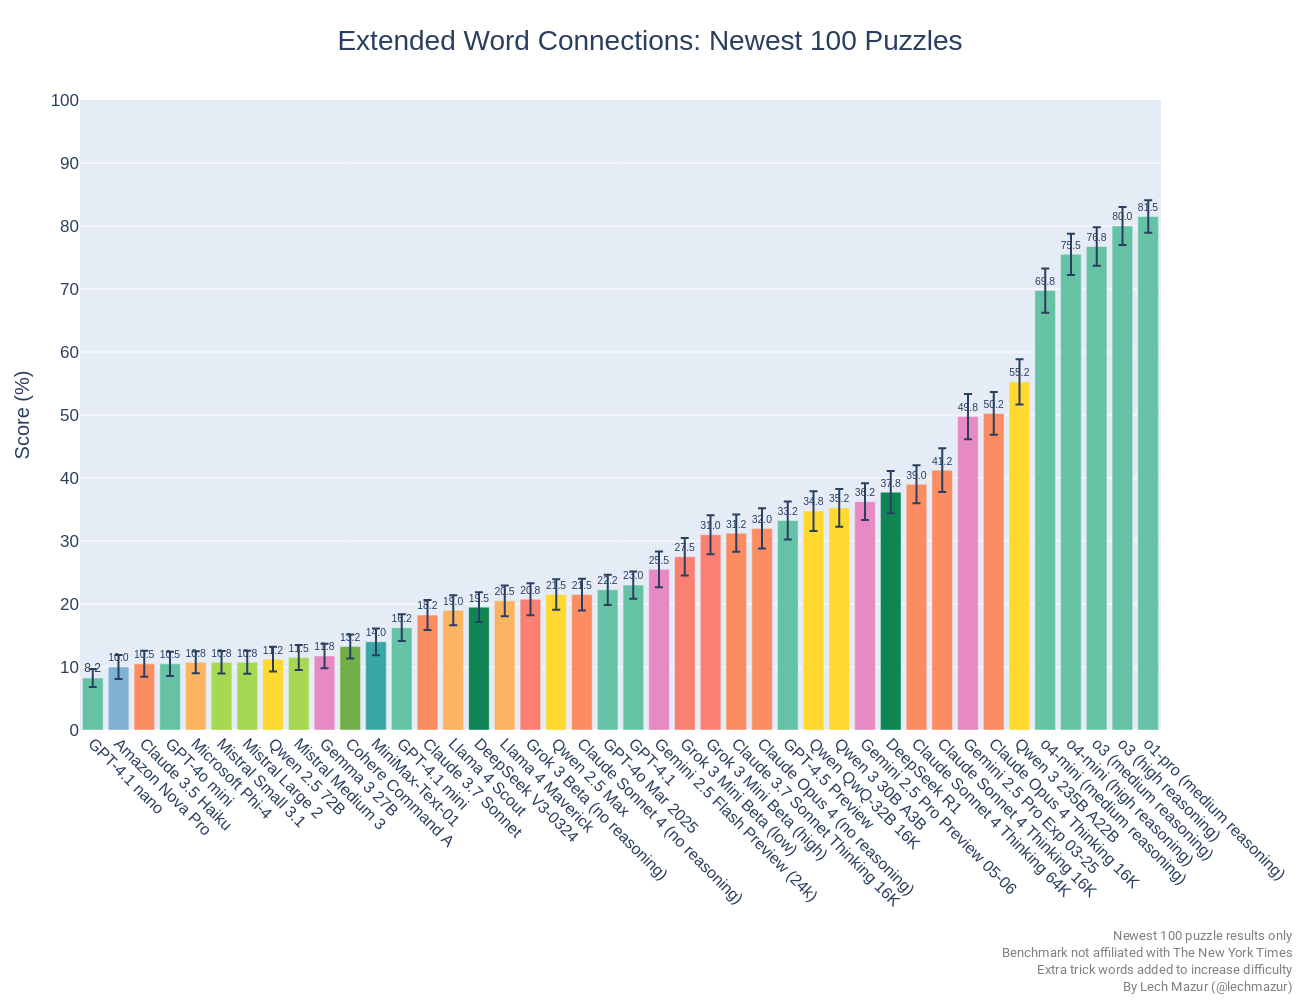
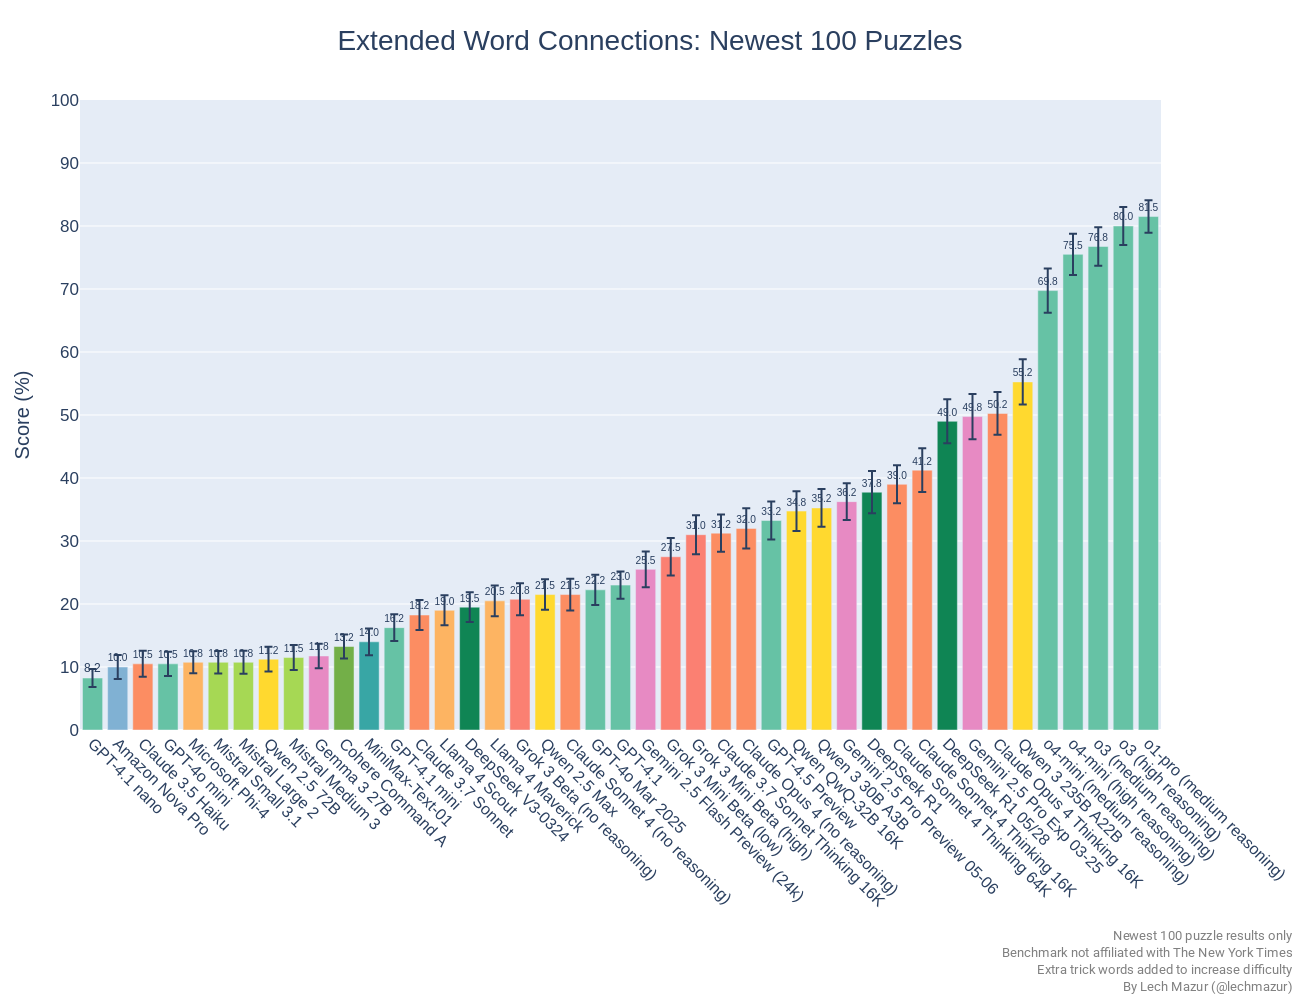
DeepSeek R1 05/28

Changed region(s): [[0.0615, 0.186, 0.9846, 0.899]]

diff --git a/README.md b/README.md
@@ -23,58 +23,59 @@ As of Feb 4, 2025, there is a new version of the benchmark. The standard NYT Con
 |9|Gemini 2.5 Pro Exp 03-25|54.1|
 |10|o3-mini (medium reasoning)|53.6|
 |11|Claude Opus 4 Thinking 16K|52.7|
-|12|Gemini 2.5 Pro Preview 05-06|42.5|
-|13|Claude Sonnet 4 Thinking 16K|41.4|
-|14|Claude Sonnet 4 Thinking 64K|39.6|
-|15|DeepSeek R1|38.6|
-|16|Qwen 3 30B A3B|38.1|
-|17|Claude Opus 4 (no reasoning)|34.8|
-|18|GPT-4.5 Preview|34.2|
-|19|Claude 3.7 Sonnet Thinking 16K|33.6|
-|20|Qwen QwQ-32B 16K|31.4|
-|21|Grok 3 Mini Beta (high)|30.9|
-|22|o1-mini|27.0|
-|23|Grok 3 Mini Beta (low)|26.0|
-|24|Gemini 2.5 Flash Preview (24k)|25.8|
-|25|Claude Sonnet 4 (no reasoning)|25.7|
-|26|Quasar Alpha|25.4|
-|27|GPT-4o Mar 2025|25.2|
-|28|GPT-4.1|23.6|
-|29|Gemini 2.0 Flash Think Exp 01-21|23.1|
-|30|GPT-4o Feb 2025|22.7|
-|31|Gemini 2.0 Pro Exp 02-05|21.7|
-|32|Grok 3 Beta (no reasoning)|20.3|
-|33|Grok 2 12-12|19.2|
-|34|Gemini 1.5 Pro (Sept)|19.2|
-|35|Claude 3.7 Sonnet|19.2|
-|36|Claude 3 Opus|19.2|
-|37|Llama 4 Maverick|19.1|
-|38|Gemini 2.0 Flash|18.8|
-|39|GPT-4o 2024-11-20|18.7|
-|40|Qwen 2.5 Max|18.0|
-|41|Llama 4 Scout|17.9|
-|42|GPT-4o 2024-08-06|17.8|
-|43|Claude 3.5 Sonnet 2024-10-22|17.7|
-|44|DeepSeek V3-0324|17.4|
-|45|Llama 3.1 405B|16.2|
-|46|DeepSeek V3|15.1|
-|47|Llama 3.3 70B|15.1|
-|48|GPT-4.1 mini|15.1|
-|49|MiniMax-Text-01|14.6|
-|50|Cohere Command A|13.6|
-|51|Mistral Medium 3|12.9|
-|52|Mistral Large 2|12.6|
-|53|Gemma 2 27B|12.2|
-|54|Gemma 3 27B|11.8|
-|55|Mistral Small 3.1|11.4|
-|56|Qwen 2.5 72B|11.1|
-|57|Claude 3.5 Haiku|10.3|
-|58|Microsoft Phi-4|10.2|
-|59|Amazon Nova Pro|10.1|
-|60|GPT-4o mini|9.9|
-|61|Mistral Small 3|8.9|
-|62|GPT-4.1 nano|8.6|
-|63|Claude 3 Haiku|2.2|
+|12|DeepSeek R1 05/28|49.8|
+|13|Gemini 2.5 Pro Preview 05-06|42.5|
+|14|Claude Sonnet 4 Thinking 16K|41.4|
+|15|Claude Sonnet 4 Thinking 64K|39.6|
+|16|DeepSeek R1|38.6|
+|17|Qwen 3 30B A3B|38.1|
+|18|Claude Opus 4 (no reasoning)|34.8|
+|19|GPT-4.5 Preview|34.2|
+|20|Claude 3.7 Sonnet Thinking 16K|33.6|
+|21|Qwen QwQ-32B 16K|31.4|
+|22|Grok 3 Mini Beta (high)|30.9|
+|23|o1-mini|27.0|
+|24|Grok 3 Mini Beta (low)|26.0|
+|25|Gemini 2.5 Flash Preview (24k)|25.8|
+|26|Claude Sonnet 4 (no reasoning)|25.7|
+|27|Quasar Alpha|25.4|
+|28|GPT-4o Mar 2025|25.2|
+|29|GPT-4.1|23.6|
+|30|Gemini 2.0 Flash Think Exp 01-21|23.1|
+|31|GPT-4o Feb 2025|22.7|
+|32|Gemini 2.0 Pro Exp 02-05|21.7|
+|33|Grok 3 Beta (no reasoning)|20.3|
+|34|Grok 2 12-12|19.2|
+|35|Gemini 1.5 Pro (Sept)|19.2|
+|36|Claude 3.7 Sonnet|19.2|
+|37|Claude 3 Opus|19.2|
+|38|Llama 4 Maverick|19.1|
+|39|Gemini 2.0 Flash|18.8|
+|40|GPT-4o 2024-11-20|18.7|
+|41|Qwen 2.5 Max|18.0|
+|42|Llama 4 Scout|17.9|
+|43|GPT-4o 2024-08-06|17.8|
+|44|Claude 3.5 Sonnet 2024-10-22|17.7|
+|45|DeepSeek V3-0324|17.4|
+|46|Llama 3.1 405B|16.2|
+|47|DeepSeek V3|15.1|
+|48|Llama 3.3 70B|15.1|
+|49|GPT-4.1 mini|15.1|
+|50|MiniMax-Text-01|14.6|
+|51|Cohere Command A|13.6|
+|52|Mistral Medium 3|12.9|
+|53|Mistral Large 2|12.6|
+|54|Gemma 2 27B|12.2|
+|55|Gemma 3 27B|11.8|
+|56|Mistral Small 3.1|11.4|
+|57|Qwen 2.5 72B|11.1|
+|58|Claude 3.5 Haiku|10.3|
+|59|Microsoft Phi-4|10.2|
+|60|Amazon Nova Pro|10.1|
+|61|GPT-4o mini|9.9|
+|62|Mistral Small 3|8.9|
+|63|GPT-4.1 nano|8.6|
+|64|Claude 3 Haiku|2.2|
 
 
 
@@ -109,58 +110,60 @@ To counteract the possibility of an LLM's training data including the solutions,
 |9|o3-mini (medium reasoning)|53.2|
 |10|Claude Opus 4 Thinking 16K|50.2|
 |11|Gemini 2.5 Pro Exp 03-25|49.8|
-|12|Claude Sonnet 4 Thinking 16K|41.2|
-|13|Claude Sonnet 4 Thinking 64K|39.0|
-|14|DeepSeek R1|37.8|
-|15|Gemini 2.5 Pro Preview 05-06|36.2|
-|16|Qwen 3 30B A3B|35.2|
-|17|Qwen QwQ-32B 16K|34.8|
-|18|GPT-4.5 Preview|33.2|
-|19|Claude Opus 4 (no reasoning)|32.0|
-|20|Claude 3.7 Sonnet Thinking 16K|31.2|
-|21|Grok 3 Mini Beta (high)|31.0|
-|22|Grok 3 Mini Beta (low)|27.5|
-|23|o1-mini|27.5|
-|24|Gemini 2.5 Flash Preview (24k)|25.5|
-|25|Gemini 2.0 Flash Think Exp 01-21|23.5|
-|26|GPT-4.1|23.0|
-|27|Quasar Alpha|23.0|
-|28|GPT-4o Mar 2025|22.2|
-|29|Claude Sonnet 4 (no reasoning)|21.5|
-|30|Qwen 2.5 Max|21.5|
-|31|Gemini 2.0 Pro Exp 02-05|20.8|
-|32|Grok 3 Beta (no reasoning)|20.8|
-|33|Llama 4 Maverick|20.5|
-|34|GPT-4o Feb 2025|20.0|
-|35|DeepSeek V3-0324|19.5|
-|36|Llama 4 Scout|19.0|
-|37|Llama 3.1 405B|18.8|
-|38|Claude 3.7 Sonnet|18.2|
-|39|Claude 3 Opus|18.2|
-|40|Gemini 2.0 Flash|18.0|
-|41|Llama 3.3 70B|17.2|
-|42|Claude 3.5 Sonnet 2024-10-22|16.8|
-|43|GPT-4.1 mini|16.2|
-|44|DeepSeek V3|15.8|
-|45|Grok 2 12-12|15.2|
-|46|MiniMax-Text-01|14.0|
-|47|Cohere Command A|13.2|
-|48|Gemini 1.5 Pro (Sept)|12.5|
-|49|GPT-4o 2024-08-06|12.0|
-|50|GPT-4o 2024-11-20|12.0|
-|51|Gemma 3 27B|11.8|
-|52|Mistral Medium 3|11.5|
-|53|Qwen 2.5 72B|11.2|
-|54|Gemma 2 27B|10.8|
-|55|Mistral Large 2|10.8|
-|56|Mistral Small 3.1|10.8|
-|57|Microsoft Phi-4|10.8|
-|58|GPT-4o mini|10.5|
-|59|Claude 3.5 Haiku|10.5|
-|60|Amazon Nova Pro|10.0|
-|61|GPT-4.1 nano|8.2|
-|62|Mistral Small 3|5.0|
-|63|Claude 3 Haiku|1.5|
+|12|DeepSeek R1 05/28|49.0|
+|13|Claude Sonnet 4 Thinking 16K|41.2|
+|14|Claude Sonnet 4 Thinking 64K|39.0|
+|15|DeepSeek R1|37.8|
+|16|Gemini 2.5 Pro Preview 05-06|36.2|
+|17|Qwen 3 30B A3B|35.2|
+|18|Qwen QwQ-32B 16K|34.8|
+|19|GPT-4.5 Preview|33.2|
+|20|Claude Opus 4 (no reasoning)|32.0|
+|21|Claude 3.7 Sonnet Thinking 16K|31.2|
+|22|Grok 3 Mini Beta (high)|31.0|
+|23|Grok 3 Mini Beta (low)|27.5|
+|24|o1-mini|27.5|
+|25|Gemini 2.5 Flash Preview (24k)|25.5|
+|26|Gemini 2.0 Flash Think Exp 01-21|23.5|
+|27|GPT-4.1|23.0|
+|28|Quasar Alpha|23.0|
+|29|GPT-4o Mar 2025|22.2|
+|30|Claude Sonnet 4 (no reasoning)|21.5|
+|31|Qwen 2.5 Max|21.5|
+|32|Gemini 2.0 Pro Exp 02-05|20.8|
+|33|Grok 3 Beta (no reasoning)|20.8|
+|34|Llama 4 Maverick|20.5|
+|35|GPT-4o Feb 2025|20.0|
+|36|DeepSeek V3-0324|19.5|
+|37|Llama 4 Scout|19.0|
+|38|Llama 3.1 405B|18.8|
+|39|Claude 3.7 Sonnet|18.2|
+|40|Claude 3 Opus|18.2|
+|41|Gemini 2.0 Flash|18.0|
+|42|Llama 3.3 70B|17.2|
+|43|Claude 3.5 Sonnet 2024-10-22|16.8|
+|44|GPT-4.1 mini|16.2|
+|45|DeepSeek V3|15.8|
+|46|Grok 2 12-12|15.2|
+|47|MiniMax-Text-01|14.0|
+|48|Cohere Command A|13.2|
+|49|Gemini 1.5 Pro (Sept)|12.5|
+|50|GPT-4o 2024-08-06|12.0|
+|51|GPT-4o 2024-11-20|12.0|
+|52|Gemma 3 27B|11.8|
+|53|Mistral Medium 3|11.5|
+|54|Qwen 2.5 72B|11.2|
+|55|Gemma 2 27B|10.8|
+|56|Mistral Large 2|10.8|
+|57|Mistral Small 3.1|10.8|
+|58|Microsoft Phi-4|10.8|
+|59|GPT-4o mini|10.5|
+|60|Claude 3.5 Haiku|10.5|
+|61|Amazon Nova Pro|10.0|
+|62|GPT-4.1 nano|8.2|
+|63|Mistral Small 3|5.0|
+|64|Claude 3 Haiku|1.5|
+
 
 
 
@@ -250,6 +253,7 @@ This benchmark evaluates large language models (LLMs) using 436 NYT Connections 
 ---
 
 ## Updates
+- May 28, 2025: DeepSeek R1 05/28 added.
 - May 22, 2025: Claude 4 models added.
 - May 7, 2025: Gemini 2.5 Pro Preview 05-06 added. Mistral Medium 3 added.
 - Apr 30, 2025: Qwen 3 added.
